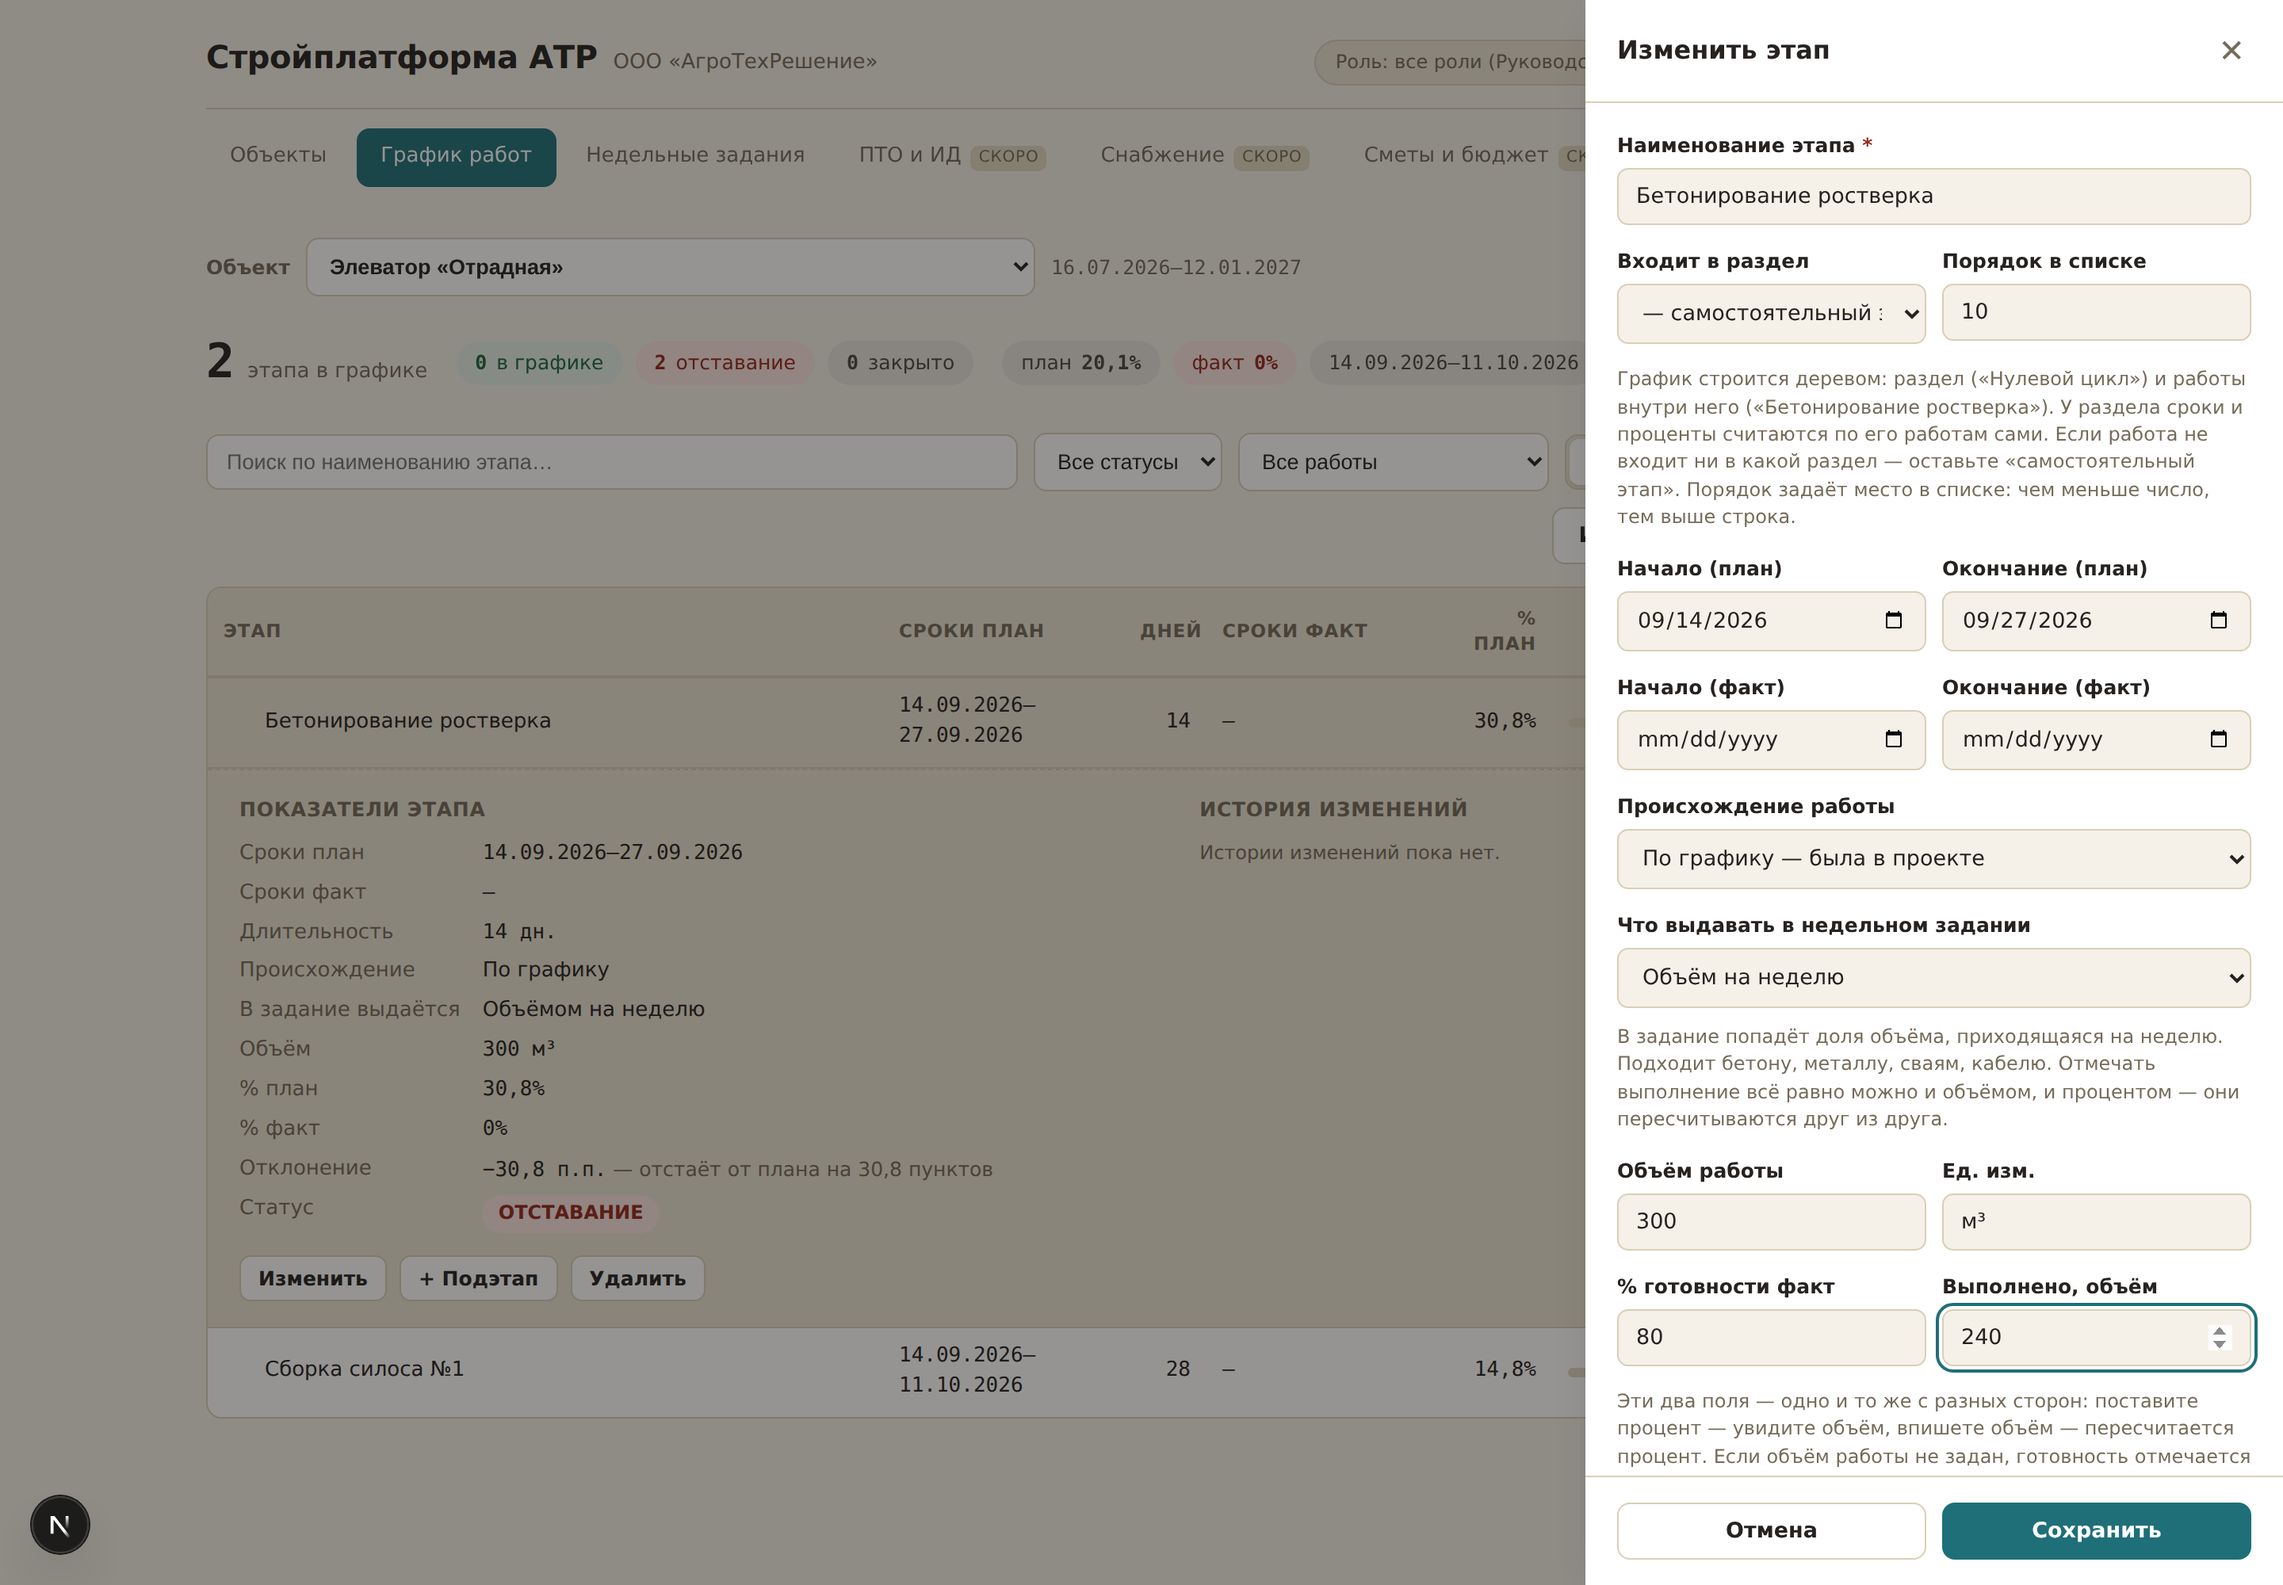
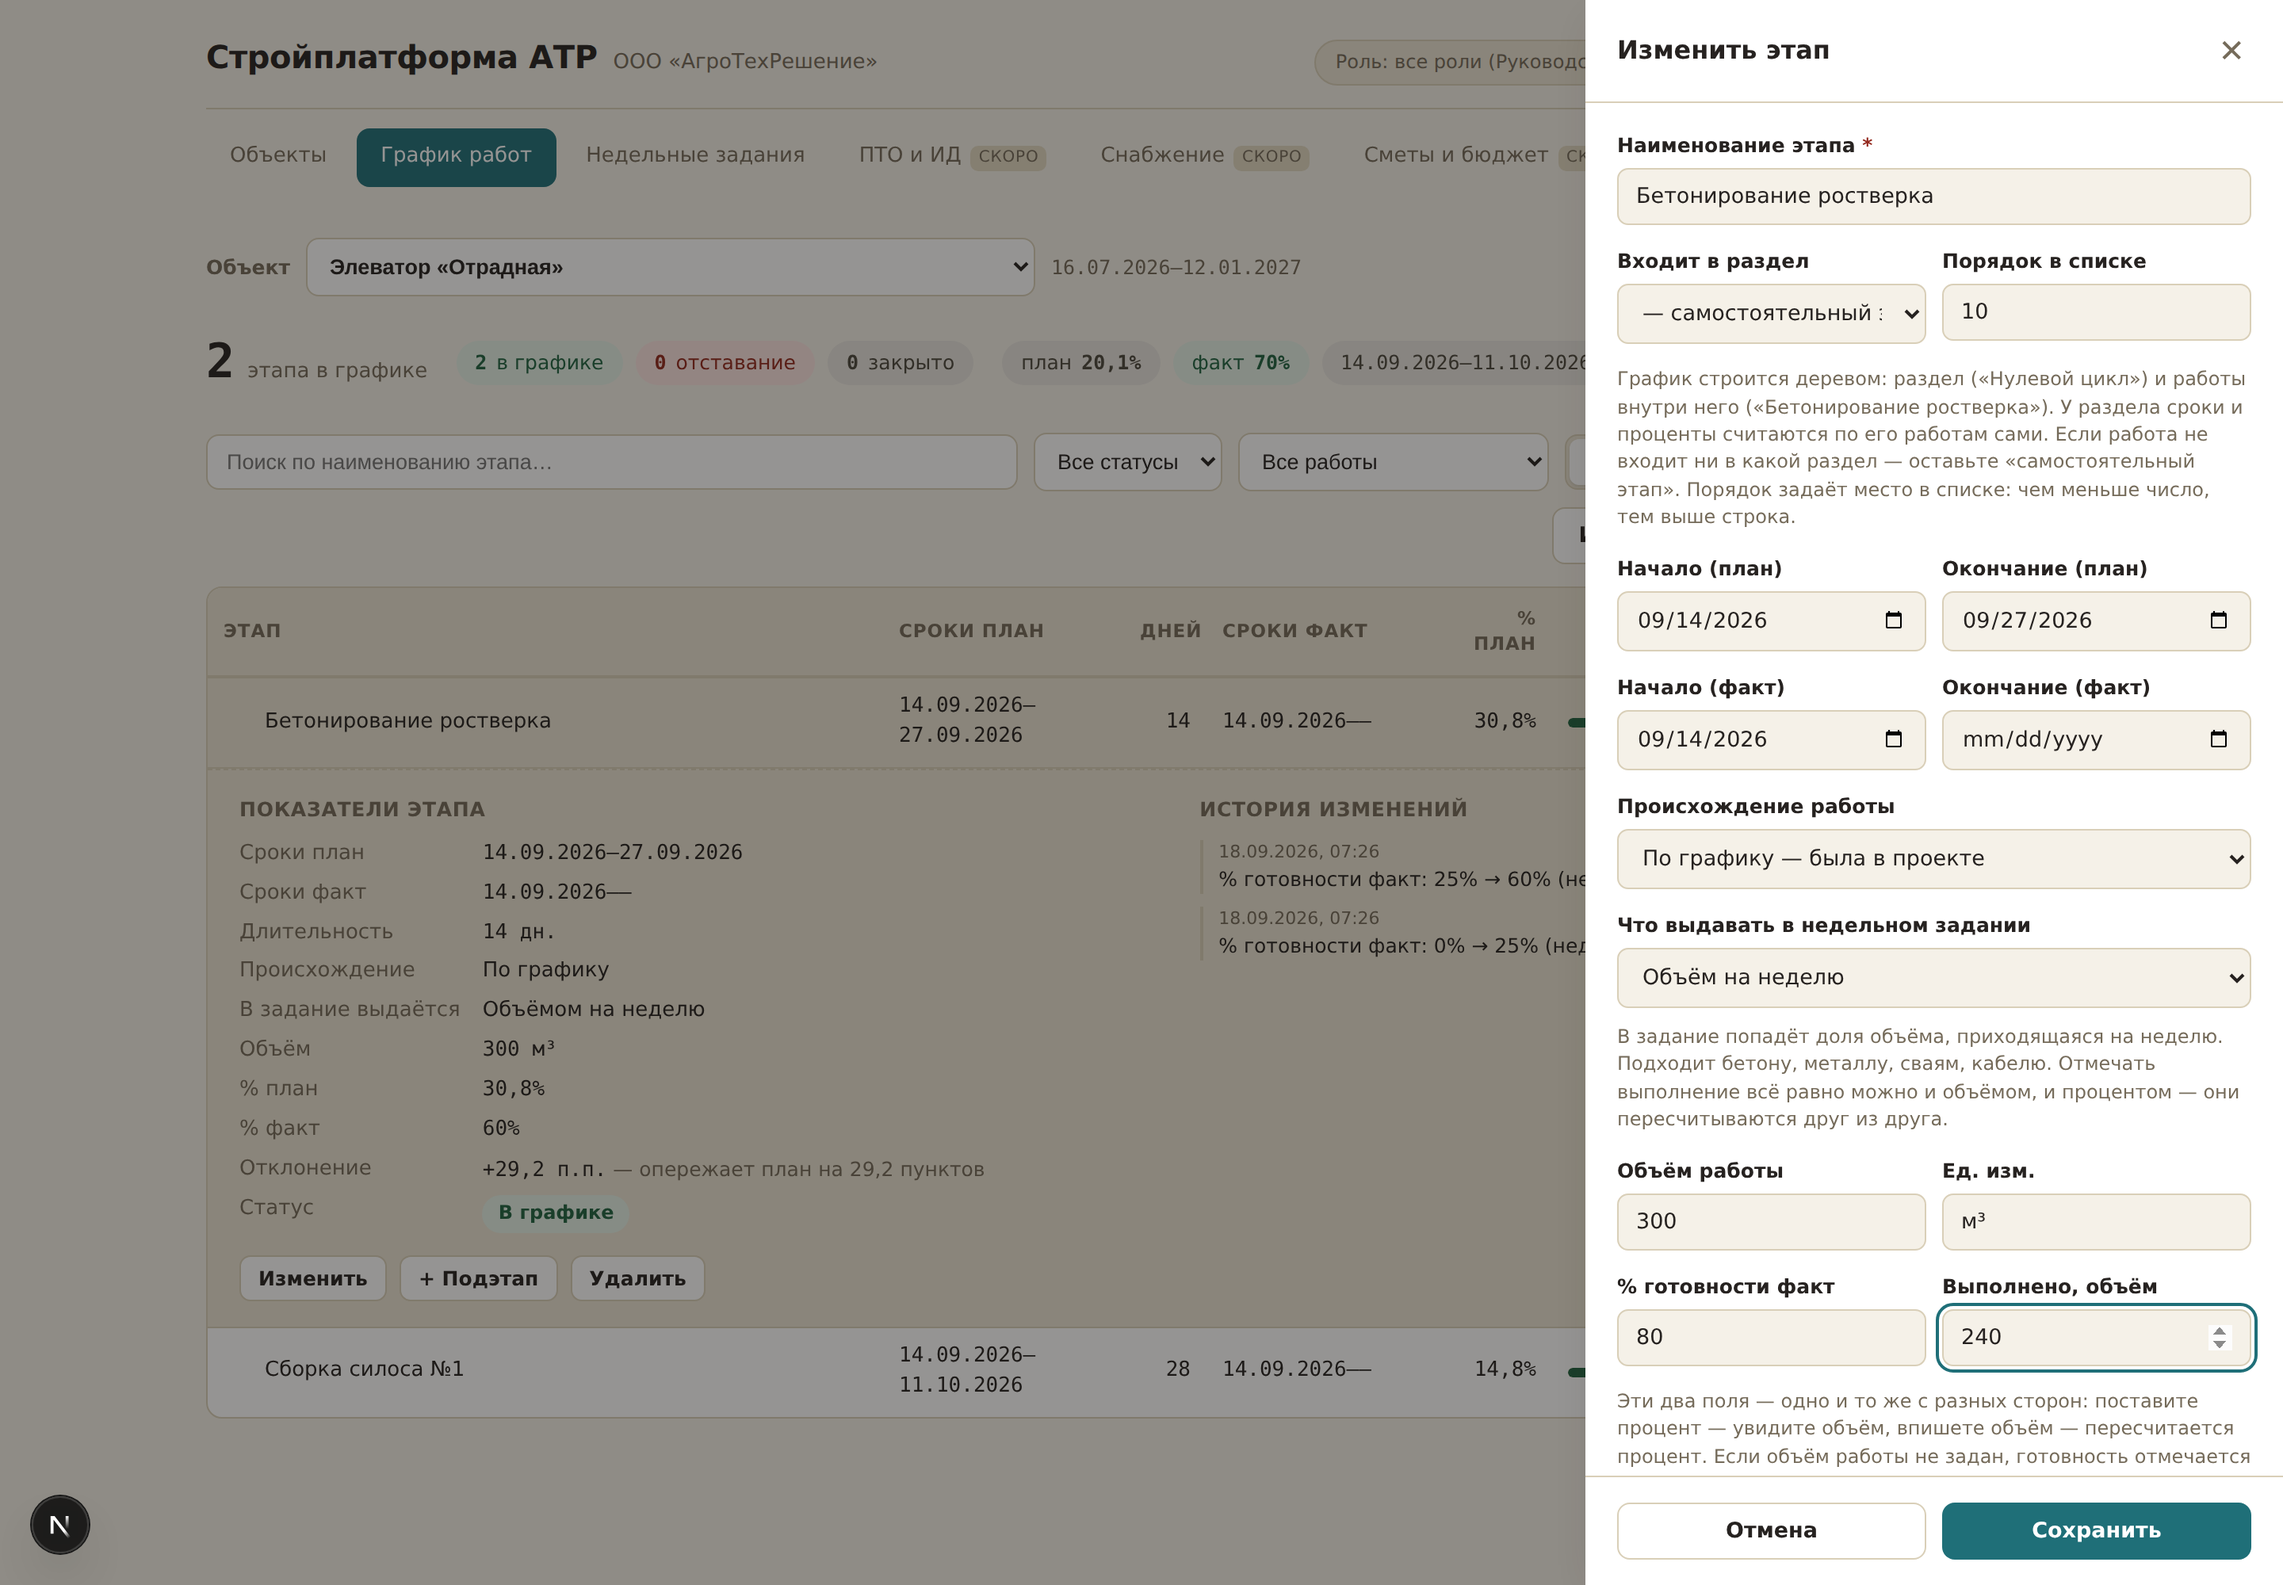
Факт из недельного задания уходит в график сразу
Прораб вписывал 98,5%, а в графике оставалось 50%: перенос происходил
только при нажатии «Закрыть неделю». Руководство смотрит график каждый
день, и такое расхождение показывает неверную картину стройки.

Теперь готовность переносится в момент ввода — и при вводе процента, и
при вводе объёма. Вместе с ней проставляются фактические даты начала и
окончания этапа, а в историю этапа пишется, из какой недели пришло
значение. Готовность, отмеченная другими строками той же работы, не
затирается: берётся наибольшая.

Закрытие недели больше ничего не переносит — оно просто запрещает правки
задания.

Claude-Session: https://claude.ai/code/session_01BGXnSNUTes74jTfo9SQXsz

diff --git a/src/components/WeeklyModule.tsx b/src/components/WeeklyModule.tsx
@@ -379,6 +379,7 @@ export default function WeeklyModule() {
       delete next[item.id];
       return next;
     });
+    await syncTaskProgress(item, pf === null ? null : clampPercent(pf), vf);
     await loadWeekData(objectId);
   }
 
@@ -386,6 +387,52 @@ export default function WeeklyModule() {
    * Перенос факта недели в график работ: где у этапа есть натуральный объём,
    * процент считается от набранного объёма, иначе берётся введённый вручную.
    */
+  /**
+   * Переносит готовность одной работы в график сразу, как только прораб её вписал.
+   * Ждать закрытия недели нельзя: руководство смотрит график каждый день, и
+   * расхождение «в задании 98,5%, в графике 50%» — это неверная картина стройки.
+   */
+  async function syncTaskProgress(item: WeeklyItem, nextPercent: number | null, nextVolume: number | null) {
+    if (!item.task_id) return;
+    const node = nodeById.get(item.task_id);
+    if (!node) return;
+
+    let progress: number | null = nextPercent;
+    if (progress === null && node.volumeTotal !== null && node.volumeTotal > 0) {
+      // Свои прежние объёмы у строки заменяем на только что введённый.
+      const others = Math.max(0, (doneByTask.get(item.task_id) || 0) - Number(item.volume_fact || 0));
+      progress = progressFromVolume(node.volumeTotal, others + Number(nextVolume || 0));
+    }
+    if (progress === null) return;
+
+    // Другие строки этой же работы могли отметить готовность выше — не откатываем.
+    const others = items
+      .filter((i) => i.task_id === item.task_id && i.id !== item.id && i.progress_fact !== null)
+      .map((i) => Number(i.progress_fact));
+    const finalProgress = clampPercent(Math.max(progress, ...others, 0));
+    if (Math.abs(finalProgress - node.progressFact) < 0.05) return;
+
+    const now = new Date().toISOString();
+    const patch: Record<string, unknown> = { progress_fact: finalProgress, updated_at: now };
+    if (!node.task.start_fact && finalProgress > 0) patch.start_fact = assignment?.week_start || null;
+    if (finalProgress >= 100 && !node.task.end_fact) patch.end_fact = weekStart ? weekEndOf(weekStart) : null;
+
+    const history: HistoryEntry[] = [
+      ...(node.task.history || []),
+      {
+        at: now,
+        text: `% готовности факт: ${fmtPercent(node.progressFact)} → ${fmtPercent(
+          finalProgress
+        )} (недельное задание ${weekLabel(assignment?.week_start || now.slice(0, 10))})`,
+      },
+    ];
+    const { error } = await supabase
+      .from("schedule_tasks")
+      .update({ ...patch, history })
+      .eq("id", item.task_id);
+    if (error) setBanner(dbErrorText(error, "Факт записан, но график не обновился"));
+  }
+
   async function pushFactToSchedule(list: WeeklyItem[]): Promise<string[]> {
     const problems: string[] = [];
     const byTask = new Map<string, WeeklyItem[]>();
@@ -460,7 +507,7 @@ export default function WeeklyModule() {
       setBanner(
         problems.length
           ? "Неделя закрыта, но часть этапов графика не обновилась: " + problems.join("; ")
-          : "Неделя закрыта, проценты готовности перенесены в график работ."
+          : "Неделя закрыта. Задание больше не редактируется."
       );
     }
     await loadWeekData(objectId);

diff --git a/README.md b/README.md
@@ -81,10 +81,11 @@
 сроки пересекают новую неделю. Недельный объём нового этапа — доля общего объёма,
 пропорциональная дням пересечения, но не больше того, что осталось.
 
-Процент готовности вводится руками только у работ без натурального объёма. Где объём
-задан, процент считается от набранного объёма за все недели. При закрытии недели эти
-проценты переносятся в график работ, там же проставляются фактические даты начала
-и окончания этапа.
+Факт уходит в график сразу, как только прораб его вписал, — ждать закрытия недели не
+нужно: руководство смотрит график каждый день, и расхождение «в задании 98,5%, в
+графике 50%» показывало бы неверную картину стройки. Вместе с процентом проставляются
+фактические даты начала и окончания этапа, а в его историю попадает запись, из какой
+недели пришло значение. Закрытие недели после этого просто запрещает правки задания.
 
 ## Стек
 
